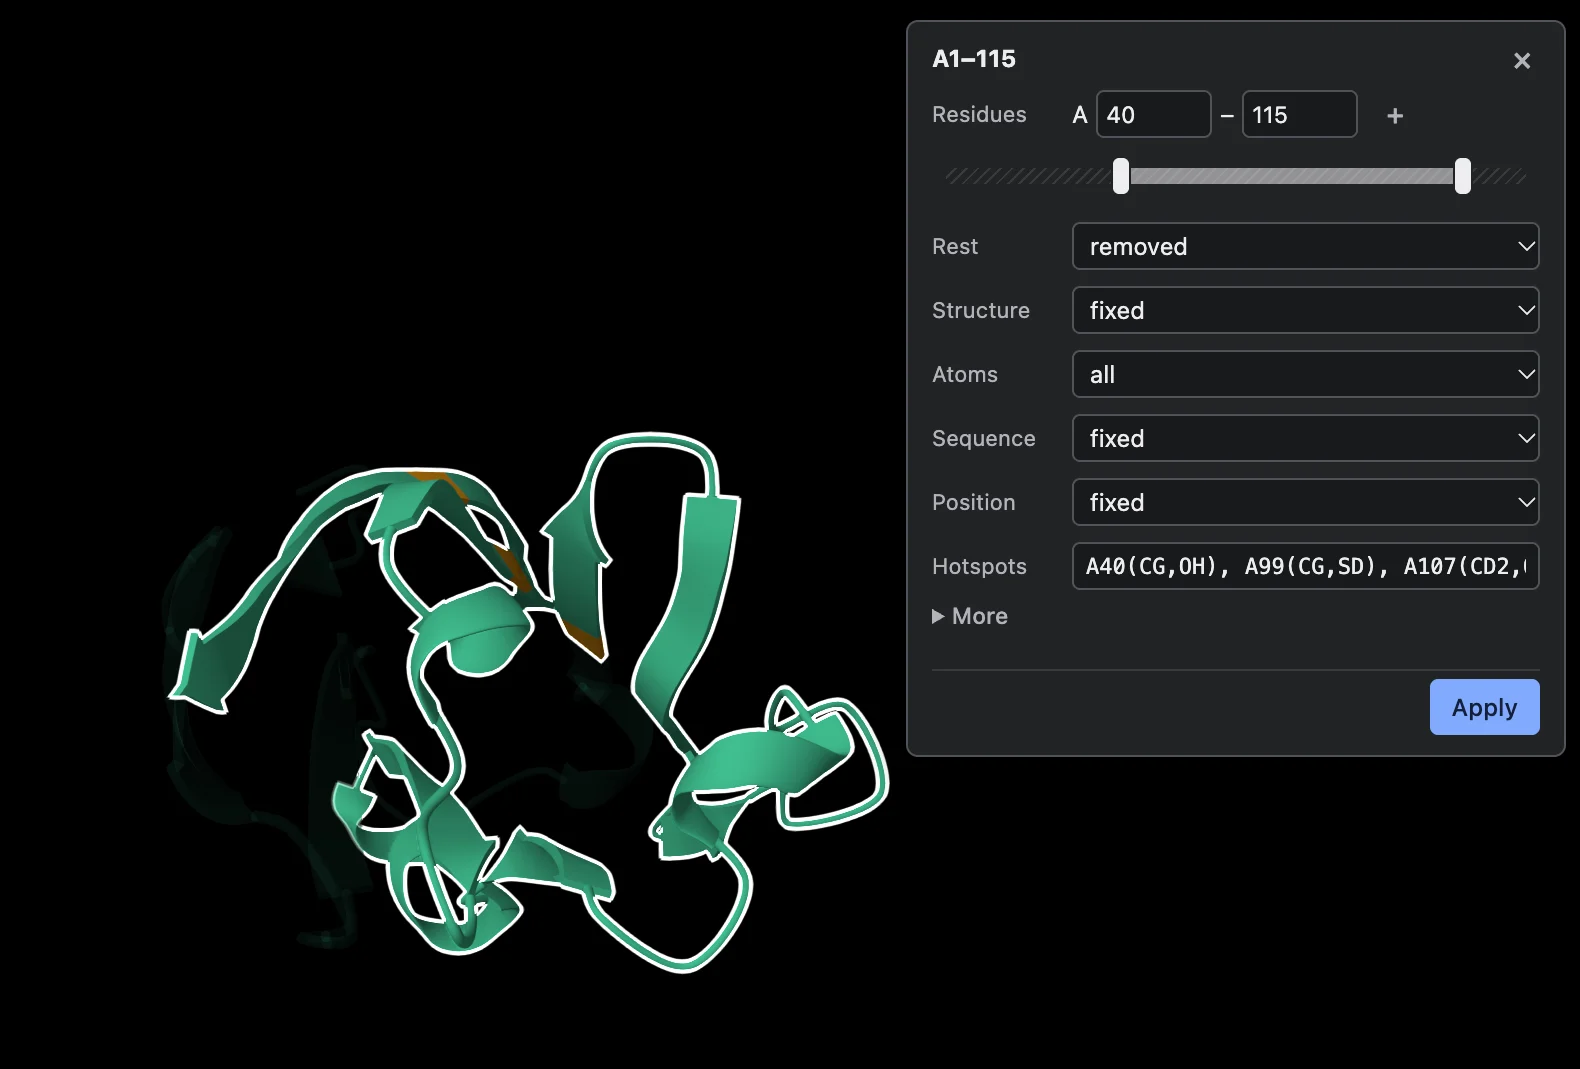
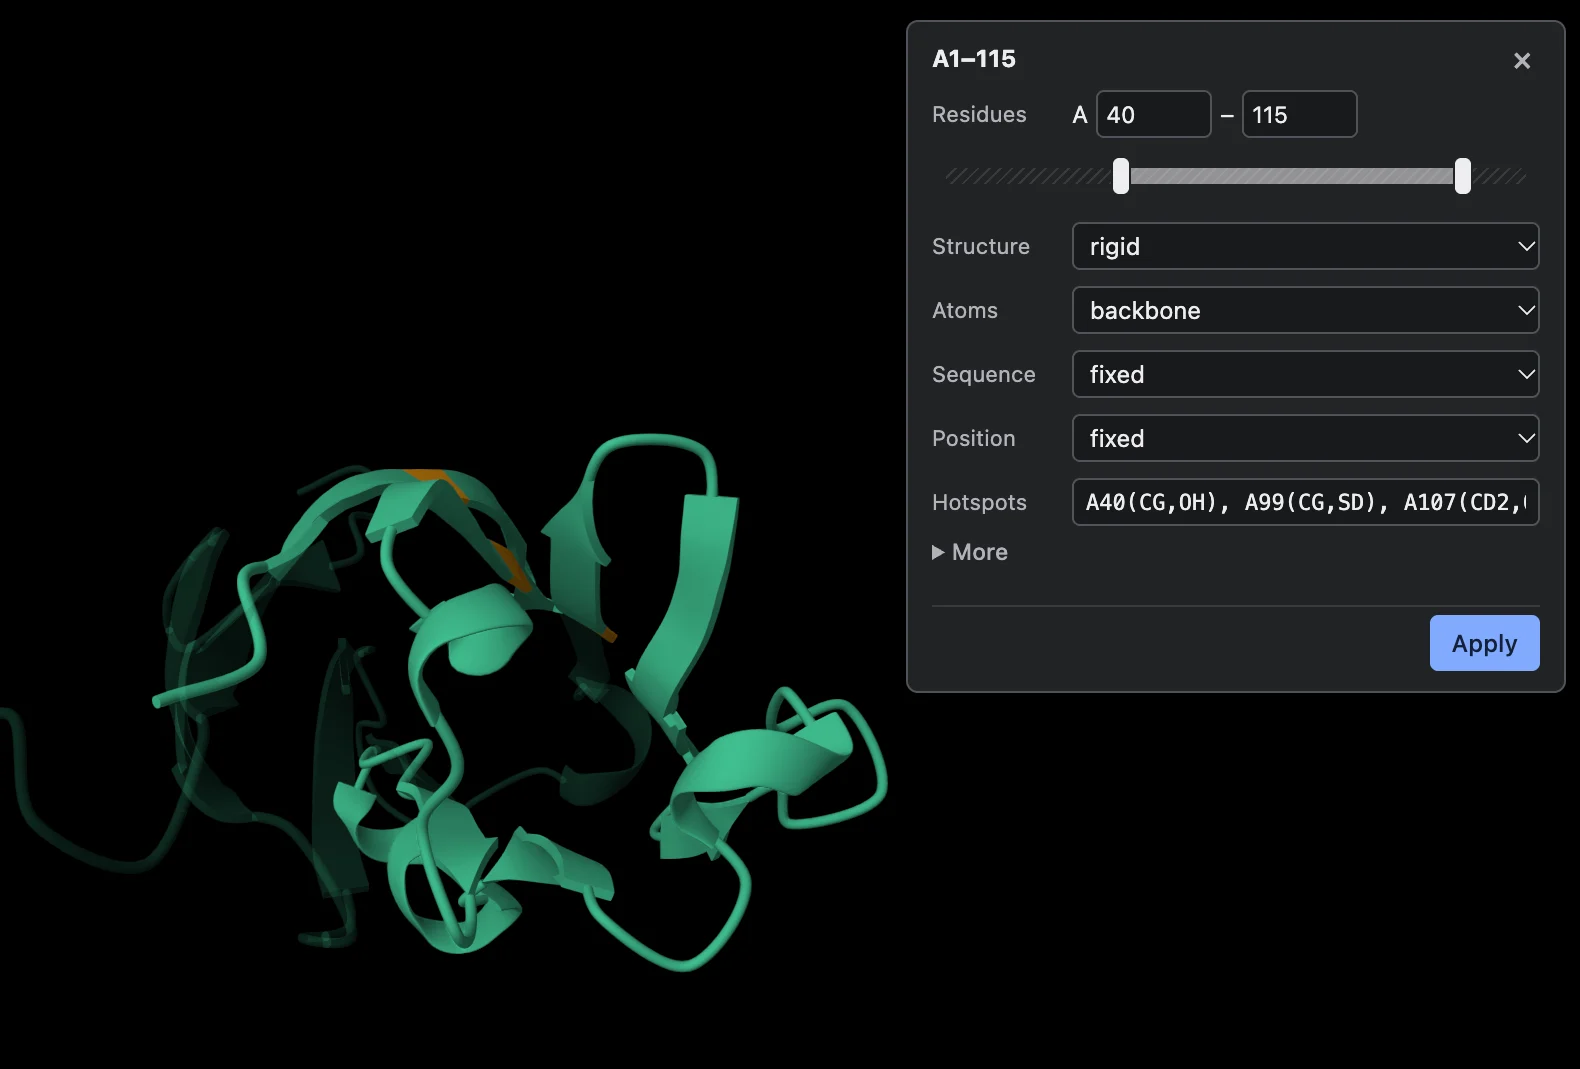
Guide: fixed, rigid and free defined in one place, and brought up to date
A section of its own for fixed / rigid / free (structure and sequence), Atoms,
Position and new residues, and how the card names each combination. Residues
are one range now (no Rest, no Between), previewed solid over the chain as
loaded; the examples table had the binder's and nanobody's targets as fixed
(they are backbone rigid) and the nanobody's entries swapped; iPAE is the
minimum interface PAE; folds and Outputs' Input row as the page has them.
The piece and pick pictures retaken. The refold steps tooltip: 200 is
AlphaFold 3's own number of steps, not what it was trained with.

diff --git a/help/index.html b/help/index.html
@@ -54,7 +54,7 @@
   <p class="lead">Set up a design, run it on your own GPU, and compare the results. Nothing is uploaded: the model runs in
     Chrome through WebGPU.</p>
   <nav class="toc" aria-label="Contents">
-    <a href="#start">Start</a><a href="#card">The design card</a><a href="#pieces">Pieces</a><a href="#select">Picking residues</a>
+    <a href="#start">Start</a><a href="#card">The design card</a><a href="#kept">Fixed, rigid, free</a><a href="#pieces">Pieces</a><a href="#select">Picking residues</a>
     <a href="#chains">Chains</a><a href="#look">Colours</a><a href="#run">Running</a><a href="#designs">Designs</a>
     <a href="#examples">Examples</a><a href="#terms">Words</a>
   </nav>
@@ -64,10 +64,11 @@
   <ul>
     <li><span class="ui">+ new</span>: a new chain for the model to design, 60–100 residues to start.</li>
     <li><span class="ui">+ pdb</span>: chains from a PDB entry (<code>5O45</code>, or <code>1J79 A C</code> for some chains, with the
-      ligands filed under them; <code>9FJX B LVY</code> names a ligand by its code) or a file, kept as they are; residues
+      ligands filed under them; <code>9FJX B LVY</code> names a ligand by its code) or a file, everything fixed; residues
       the entry did not resolve (missing ends and loops) are left out. A file can also be dropped anywhere on the page:
       on the start screen it opens as a new job, with a job open its chains are added.</li>
-    <li><span class="ui">+ lig</span>: a small molecule by its PDB code (<code>HEM</code>, <code>ATP</code>, <code>ZN</code>), placed by the model.</li>
+    <li><span class="ui">+ lig</span>: a small molecule by its PDB code (<code>HEM</code>, <code>ATP</code>, <code>ZN</code>), placed by
+      the model (its Structure free).</li>
   </ul>
   <figure class="narrow"><img src="img/start.webp" alt="The start screen: + new, + pdb, + lig, and the examples" loading="lazy"><figcaption>Start from parts, or from an example.</figcaption></figure>
   <p>Or open one of the <a href="#examples">examples</a>: each is fetched from its PDB entry and set up for you.
@@ -76,7 +77,8 @@
   <h2 id="card">The design card</h2>
   <p>The card lists each chain as pieces, in order: what is kept, what is free, and where new residues go.</p>
   <ul>
-    <li>A piece reads like <code>A17–131 · fixed · 3 hotspots</code>, <code>H99–109 · free</code> or <code>50–120 · new</code>.</li>
+    <li>A piece reads like <code>A17–131 · fixed · 3 hotspots</code>, <code>H99–109 · free</code> or <code>50–120 · new</code>
+      (the words are explained <a href="#kept">below</a>).</li>
     <li>Click a piece to change it. Its residues are selected in the viewer while its popup is open, and brought to the
       middle of the view.</li>
     <li><span class="ui">+</span> between pieces adds residues there: new ones of a length, or, in a chain from a PDB entry, residues of
@@ -86,23 +88,50 @@
     <li><span class="ui">Undo</span> steps back through every edit.</li>
   </ul>
   <figure class="narrow"><img src="img/card.webp" alt="The protein binder example: PD-L1 in the viewer, its sequence above, and the card with chain A backbone rigid with 3 hotspots and chain B as 50–120 new residues" loading="lazy"><figcaption>The binder example's card: the target kept with three hotspots, a new chain of 50–120 residues to design.</figcaption></figure>
-  <p>Every setting is <span class="ui">fixed</span> (kept as given) or <span class="ui">free</span> (the model decides).</p>
+
+  <h2 id="kept">Fixed, rigid, free</h2>
+  <p>Every setting is <span class="ui">fixed</span> (kept as given) or <span class="ui">free</span> (the model decides).
+    Structure has a third choice, <span class="ui">rigid</span>, between the two.</p>
+  <div class="table-wrap"><table>
+    <tr><th></th><th>Structure</th><th>Sequence</th></tr>
+    <tr><td><b>fixed</b></td><td>The atoms keep their coordinates: the design is built around them exactly where they
+      are.</td><td>These amino acids are kept.</td></tr>
+    <tr><td><b>rigid</b></td><td>The atoms keep their shape, but the model decides where the whole body goes and which way it
+      faces. Rigid chains from the same structure are one body and move together.</td><td>—</td></tr>
+    <tr><td><b>free</b></td><td>Nothing is kept: the model builds it. Faded in the viewer.</td><td>The model chooses the
+      amino acids.</td></tr>
+  </table></div>
+  <p>With a fixed or rigid structure, <span class="ui">Atoms</span> says which atoms are held: all, the backbone, the side
+    chains, or named ones (<code>CG, OD1</code>); the rest are free. <span class="ui">Position</span> fixed keeps a residue at
+    its place in the chain; free lets the model put it anywhere in the chain. <b>New residues</b> are free residues that are
+    not in the input at all, a length range.</p>
+  <p>The card names the combination:</p>
+  <div class="table-wrap"><table>
+    <tr><th>Card says</th><th>Structure</th><th>Sequence</th></tr>
+    <tr><td><code>fixed</code></td><td>fixed</td><td>fixed</td></tr>
+    <tr><td><code>structure fixed</code></td><td>fixed</td><td>free (inverse folding)</td></tr>
+    <tr><td><code>sequence fixed</code></td><td>free</td><td>fixed</td></tr>
+    <tr><td><code>rigid</code></td><td>rigid</td><td>as set in the popup</td></tr>
+    <tr><td><code>free</code></td><td>free</td><td>free</td></tr>
+    <tr><td><code>new</code></td><td colspan="2">new residues: free, with a length range</td></tr>
+  </table></div>
+  <p>Held atoms come first when only some are: <code>backbone fixed</code>, <code>backbone rigid</code>,
+    <code>side chains fixed</code>, <code>CG, OD1 fixed</code>. <code>position free</code> is added when the residue may go
+    anywhere in the chain.</p>
 
   <h2 id="pieces">Pieces</h2>
   <h3>Residues</h3>
-  <p>Residues are a range, from – to; <span class="ui">+</span> adds another (1 – 40 and 60 – 115), × drops one. Under it, a bar shows the chain as it was loaded: drag either end
-    in to crop the piece, or out to bring residues back (up to the next piece). The structure previews it as you drag:
-    residues about to be cut nearly vanish.</p>
-  <figure><img src="img/piece.webp" alt="A piece popup with its crop bar dragged in; the residues to be cut have faded in the structure" loading="lazy"><figcaption>Dragging the crop bar: residues 1–39 are about to be cut and fade away; what stays is outlined.</figcaption></figure>
-  <ul>
-    <li><span class="ui">Rest</span>: what happens to residues outside the ranges: removed (the default), free, or unchanged.</li>
-    <li><span class="ui">Between</span>: with several ranges, a length for the gaps, which become new residues (for a variable linker).</li>
-  </ul>
+  <p>A piece's residues are one range, from – to. Under it, a bar shows the chain as it was loaded: drag either end in to
+    crop the piece, or out to bring residues back (up to the next piece). Typing the range does the same. While you
+    edit, the structure shows what Apply will keep, solid, with the rest of the chain as loaded faint behind it.</p>
+  <figure><img src="img/piece.webp" alt="A piece popup with its crop bar dragged in; the residues to be cut have faded in the structure" loading="lazy"><figcaption>Cropping PD-L1 to residues 40–115: the residues to be cut show faint.</figcaption></figure>
+  <p>To change only part of a piece (free a loop in a fixed chain, say), pick those residues instead: see
+    <a href="#select">Picking residues</a>.</p>
   <h3>Structure, Sequence, Position</h3>
   <div class="table-wrap"><table>
     <tr><th>Setting</th><th>Options</th></tr>
     <tr><td>Structure</td><td><b>fixed</b>: kept where it is. <b>rigid</b>: kept as it is, but the model places it (a framework
-      docking onto a target). <b>free</b>: the model builds it. With fixed or rigid, <b>Atoms</b> says which: all, backbone,
+      docking onto a target). <b>free</b>: the model builds it. With fixed or rigid, <b>Atoms</b> says which atoms: all, backbone,
       side chains, or named (<code>CG, OD1</code>).</td></tr>
     <tr><td>Sequence</td><td><b>fixed</b>: these amino acids. <b>free</b>: the model writes them.</td></tr>
     <tr><td>Position</td><td><b>fixed</b>: at this place in the chain. <b>free</b>: anywhere in the chain (a catalytic residue the model places).</td></tr>
@@ -110,11 +139,12 @@
       <b>new residues</b>, each design picking one length from the range.</td></tr>
     <tr><td>Hotspots</td><td>Residues of this chain a binder should touch: <code>A56, A60-62</code>, or some atoms: <code>A56(CG,OH)</code>.</td></tr>
   </table></div>
-  <p>Chains from the same structure that are rigid move as one body, so an antibody's heavy and light chains keep their pairing.</p>
+  <p>Rigid chains from the same structure move as one body, so an antibody's heavy and light chains keep their pairing;
+    rigid chains from different structures move apart.</p>
   <p class="note">Designing a binder: crop the target to the domain around the site (the crop bar), give it two or three
     hotspots, and add the binder with <span class="ui">+ new</span>. The target is then made rigid with Atoms backbone and its
-    sequence fixed, as the model's own binder recipe does: its shape is kept and the model places it with the binder, which
-    gives fewer binders that copy the target. Set it back to fixed to hold it where it is. There is no need to centre it.</p>
+    sequence fixed and side chains free, as the model's own binder recipe does: its shape is kept and the model places it
+    with the binder, which gives fewer binders that copy the target. Set it back to fixed to hold it where it is. There is no need to centre it.</p>
   <h3>More</h3>
   <ul>
     <li><span class="ui">Shape</span>: H helix, E strand or C loop (the card shows the letter). <span class="ui">Exposure</span>: buried, intermediate or exposed.</li>
@@ -125,8 +155,8 @@
   </ul>
   <h3>New residues</h3>
   <p>A <code>50–120 · new</code> piece has a Length range, a Shape, an Exposure and the chain's Fold. New residues that replaced
-    residues show <span class="ui">was 7</span>: click it, or set Structure or Sequence to fixed, to bring the originals back
-    with their coordinates.</p>
+    residues show <span class="ui">was 7</span>: click it and Apply, or set Structure or Sequence to fixed, to bring the
+    originals back in place with their coordinates.</p>
 
   <h2 id="select">Picking residues</h2>
   <p>Click residues in the viewer or the sequence bar for a shorter popup: Structure, Sequence, Length for one free
@@ -137,7 +167,9 @@
 
   <h2 id="chains">Chains</h2>
   <p>Click a chain's letter for its name, its place in the job, and a <span class="ui">Fold</span> for it to take
-    (CATH: helix bundle, β-sandwich, immunoglobulin-like, ferredoxin-like, Rossmann-like, TIM barrel, or any code).</p>
+    (CATH: helix bundle, up-down helix bundle, β-barrel, β-sandwich, immunoglobulin-like, ferredoxin-like, Rossmann-like,
+    TIM barrel, or any code). A block of new residues can take a fold of its own, so one chain can hold domains of different
+    folds.</p>
 
   <h2 id="look">Colours</h2>
   <ul>
@@ -174,20 +206,20 @@
     <tr><td>Backbone K, Latents K</td><td>Sampling temperature for the structure and the sequence: lower is hotter, more varied.</td></tr>
     <tr><td>Early stop</td><td>Stop once the structure and sequence stop changing.</td></tr>
   </table></div>
-  <p>A job where every chain keeps its backbone and only the sequence is free runs as inverse folding: the backbone comes
-    back exactly as given.</p>
+  <p>A job where every chain keeps its backbone and only the sequence is free (<code>structure fixed</code>) runs as
+    inverse folding: the backbone comes back as given, and only the sequence and side chains are designed.</p>
 
   <h2 id="designs">Designs</h2>
-  <p>Two tabs: <span class="ui">Input</span>, the structure the designs were made from (open it to go back to editing), and
-    <span class="ui">Outputs</span>, the designs. Every design is a row, named by its seed (the same seed and settings make it
-    again); click one to see it. A new Generate shows its first design, and a refold the design it refolded. Generate again with the input unchanged
+  <p>Two tabs: <span class="ui">Input</span>, the job you are editing, and <span class="ui">Outputs</span>, the designs.
+    In Outputs the first row, Input, is the structure the designs were made from; every design is a row after it, named by
+    its seed (the same seed and settings make it again); click one to see it. A new Generate shows its first design, and a refold the design it refolded. Generate again with the input unchanged
     and the new designs join the list; change the input and the next Generate starts a new list (save what you want to
     keep first).</p>
   <ul>
     <li><span class="ui">Refold all</span> folds each design's sequence again with AlphaFold 3 or OpenBind-0 and scores how well it comes
       back. <span class="ui">↻</span> refolds one design; <span class="ui">⤓</span> downloads it. The
-      <span class="ui">Refold</span> box holds its settings: model, seed, recycles (3) and diffusion steps (25; AlphaFold 3 was
-      trained with 200). Change any of them and Refold all folds every design again with the new ones; go back to settings already used and
+      <span class="ui">Refold</span> box holds its settings: model, seed, recycles (3) and diffusion steps (25; AlphaFold 3 itself
+      uses 200). Change any of them and Refold all folds every design again with the new ones; go back to settings already used and
       their refolds are shown again, nothing folded twice. Every refold is kept for Save all.</li>
     <li>Rows are in the order made; click a column head to sort by it.</li>
     <li><span class="ui">Save all (.zip)</span>: the input, every design with its trajectory, every refold, and the table as
@@ -198,15 +230,16 @@
     <tr><th>Column</th><th>Meaning</th><th>Better</th></tr>
     <tr><td>RMSD</td><td>Å between the design and its refold. For a binder or antibody, after fitting on the target, so where it sits counts.</td><td>lower</td></tr>
     <tr><td>pLDDT</td><td>The refold model's confidence, 0–100.</td><td>higher</td></tr>
-    <tr><td>ipTM</td><td>Its confidence in the interface, 0–1.</td><td>higher</td></tr>
-    <tr><td>iPAE</td><td>Å: the lowest predicted error between a designed residue and the rest.</td><td>lower</td></tr>
+    <tr><td>ipTM</td><td>Its confidence in the interface, 0–1 (jobs with more than one chain).</td><td>higher</td></tr>
+    <tr><td>iPAE</td><td>Å: the minimum interface PAE, the lowest predicted aligned error between any designed residue and any
+      residue of another chain.</td><td>lower</td></tr>
   </table></div>
   <p>The <code>passes</code> column of <code>summary.csv</code> says whether a design meets the model's own pass criteria:</p>
   <div class="table-wrap"><table>
     <tr><th>Job</th><th>Passes when</th></tr>
     <tr><td>Monomer</td><td>RMSD ≤ 1.5 Å</td></tr>
-    <tr><td>Binder</td><td>the binder's pTM ≥ 0.80, iPAE ≤ 1.5, RMSD on the target ≤ 2.5 Å</td></tr>
-    <tr><td>Antibody</td><td>iPAE ≤ 2.0, RMSD on the target ≤ 2.0 Å</td></tr>
+    <tr><td>Binder</td><td>the binder's pTM ≥ 0.80, iPAE ≤ 1.5 Å, RMSD on the target ≤ 2.5 Å</td></tr>
+    <tr><td>Antibody</td><td>iPAE ≤ 2.0 Å, RMSD on the target ≤ 2.0 Å</td></tr>
   </table></div>
   <p>Motif, enzyme and small-molecule jobs get the numbers but no verdict: their criteria also need motif and ligand RMSDs not
     computed here. Passing is a computational check; binding still needs an experiment.</p>
@@ -216,23 +249,31 @@
   <h2 id="examples">Examples</h2>
   <div class="table-wrap"><table>
     <tr><th>Example</th><th>Set-up</th></tr>
-    <tr><td>Protein from scratch</td><td>One free chain of 250 residues.</td></tr>
+    <tr><td>Protein from scratch</td><td>One chain of 250 new residues.</td></tr>
     <tr><td>Blueprint</td><td>A ferredoxin-like fold drawn as blocks, E-H-E-E-H-E with C loops between, each a block of new residues with its shape.</td></tr>
-    <tr><td>Protein binder</td><td>PD-L1 (5O45) fixed with three hotspots; a new binder of 50–120 residues.</td></tr>
-    <tr><td>Small-molecule binder</td><td>SAM (1XVA), placed by the model; a 150-residue protein around it.</td></tr>
-    <tr><td>Motif scaffolding</td><td>Three residues of 1QJG fixed; the rest rebuilt as four stretches of new residues.</td></tr>
-    <tr><td>Enzyme</td><td>A catalytic Asp's tip atoms (position free), Zn and part of orotate (1J79) fixed; 180 new residues.</td></tr>
-    <tr><td>Antibody loop</td><td>HER2 (1N8Z) fixed with hotspots; heavy and light frameworks rigid as one body; CDR H3 free.</td></tr>
-    <tr><td>Nanobody (VHH)</td><td>PD-L1 (3EAK) fixed with hotspots; the 4Z18 framework rigid; three CDRs as new residues.</td></tr>
-    <tr><td>Redesign a sequence</td><td>2KL8's backbone kept, its sequence free (inverse folding).</td></tr>
+    <tr><td>Protein binder</td><td>PD-L1 (5O45, residues 1–115) backbone rigid, sequence fixed, three hotspots; a new binder
+      of 50–120 residues.</td></tr>
+    <tr><td>Small-molecule binder</td><td>SAM (1XVA) free, placed by the model; a 150-residue protein around it.</td></tr>
+    <tr><td>Motif scaffolding</td><td>Three residues of 1QJG (A38, A14, A99) fixed; four stretches of new residues around
+      them.</td></tr>
+    <tr><td>Enzyme</td><td>A catalytic Asp's tip atoms, CG and OD1, fixed with position free; Zn and four atoms of orotate
+      (1J79) fixed; 180 new residues.</td></tr>
+    <tr><td>Antibody loop</td><td>HER2 (1N8Z), cropped to the epitope, fixed with hotspots; heavy and light frameworks rigid
+      as one body; CDR H3 free.</td></tr>
+    <tr><td>Nanobody (VHH)</td><td>PD-L1 (4Z18) backbone rigid with three hotspots; the nanobody framework (3EAK) backbone
+      rigid, a body of its own; three CDRs as new residues.</td></tr>
+    <tr><td>Redesign a sequence</td><td>2KL8 structure fixed, sequence free (inverse folding).</td></tr>
     <tr><td>Diversify a structure</td><td>2KL8 free, starting 40% of the way from it (partial diffusion).</td></tr>
   </table></div>
   <p>The examples reproduce the inputs of the model's own demo, fetched from their PDB entries.</p>
 
   <h2 id="terms">Words</h2>
   <ul>
-    <li><b>Fixed / free</b>: kept as given / decided by the model.</li>
-    <li><b>Rigid</b>: kept as it is, placed by the model.</li>
+    <li><b>Fixed</b>: kept as given; a fixed structure stays exactly where it is.</li>
+    <li><b>Rigid</b>: a structure kept in shape, which the model moves and turns as one body.</li>
+    <li><b>Free</b>: decided by the model.</li>
+    <li><b>Atoms</b>: which atoms of a fixed or rigid structure are held (all, backbone, side chains, or named).</li>
+    <li><b>Position free</b>: a residue the model may put anywhere in its chain.</li>
     <li><b>New residues</b>: residues with no starting structure, a length range; each design picks one length.</li>
     <li><b>Hotspot</b>: a target residue a binder should touch.</li>
     <li><b>Partial diffusion</b>: start from the input structure part of the way, for variants close to it.</li>

diff --git a/index.html b/index.html
@@ -138,7 +138,7 @@
                                 <option value="3" selected>3</option><option value="5">5</option><option value="10">10</option>
                             </select>
                         </label>
-                        <label title="Diffusion steps of the structure module: 25 is LocalFold's default, 200 what AlphaFold 3 was trained with">Steps
+                        <label title="Diffusion steps of the structure module: 25 is LocalFold's default, 200 AlphaFold 3's own">Steps
                             <select id="rfd4p-refold-steps">
                                 <option value="25" selected>25</option><option value="50">50</option>
                                 <option value="100">100</option><option value="200">200</option>

diff --git a/web/page/card.html b/web/page/card.html
@@ -65,7 +65,7 @@
                                 <option value="3" selected>3</option><option value="5">5</option><option value="10">10</option>
                             </select>
                         </label>
-                        <label title="Diffusion steps of the structure module: 25 is LocalFold's default, 200 what AlphaFold 3 was trained with">Steps
+                        <label title="Diffusion steps of the structure module: 25 is LocalFold's default, 200 AlphaFold 3's own">Steps
                             <select id="rfd4p-refold-steps">
                                 <option value="25" selected>25</option><option value="50">50</option>
                                 <option value="100">100</option><option value="200">200</option>
